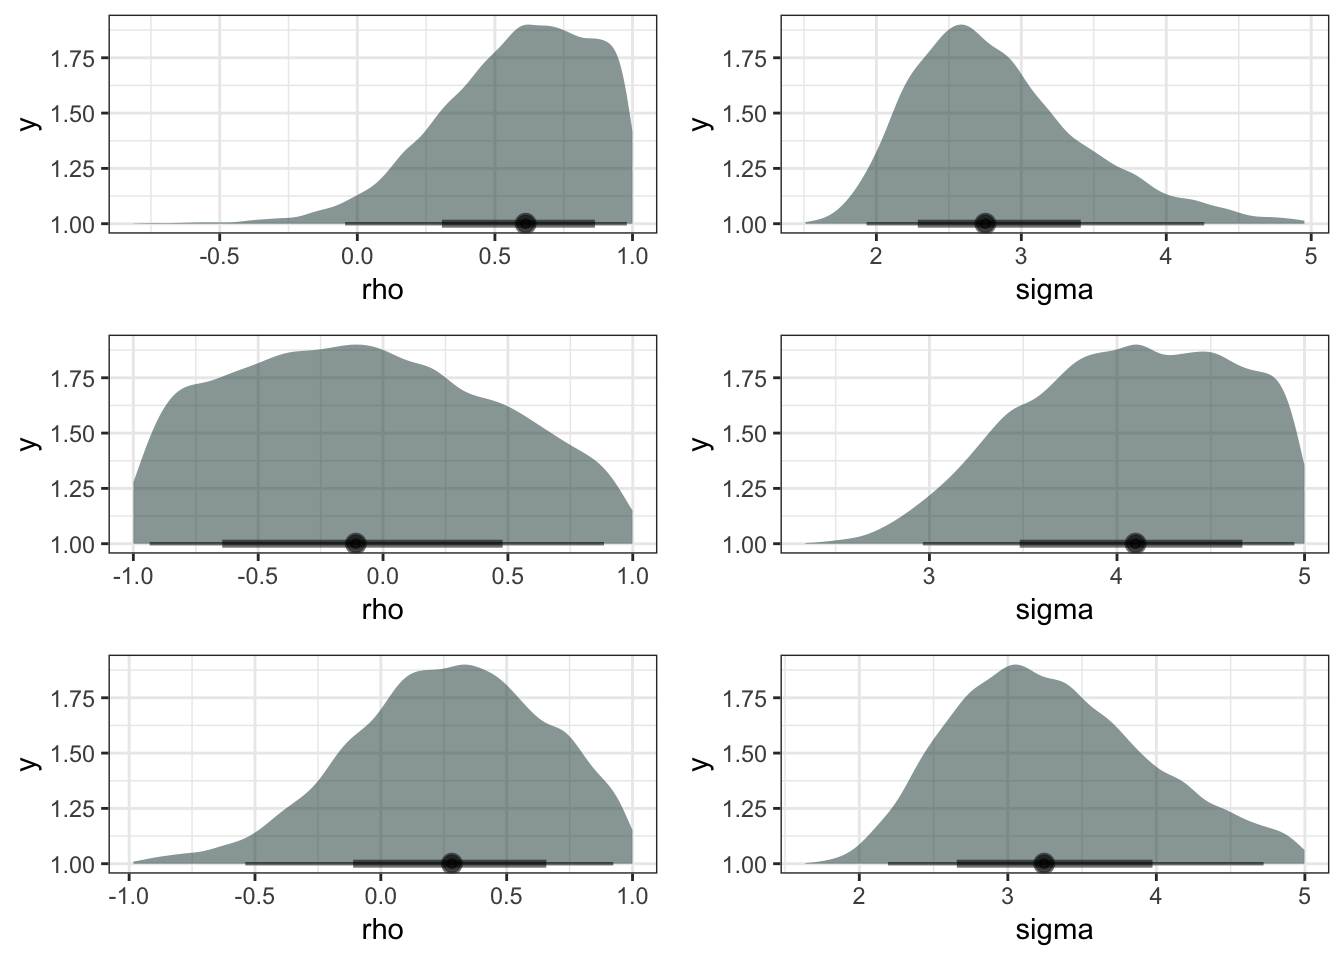
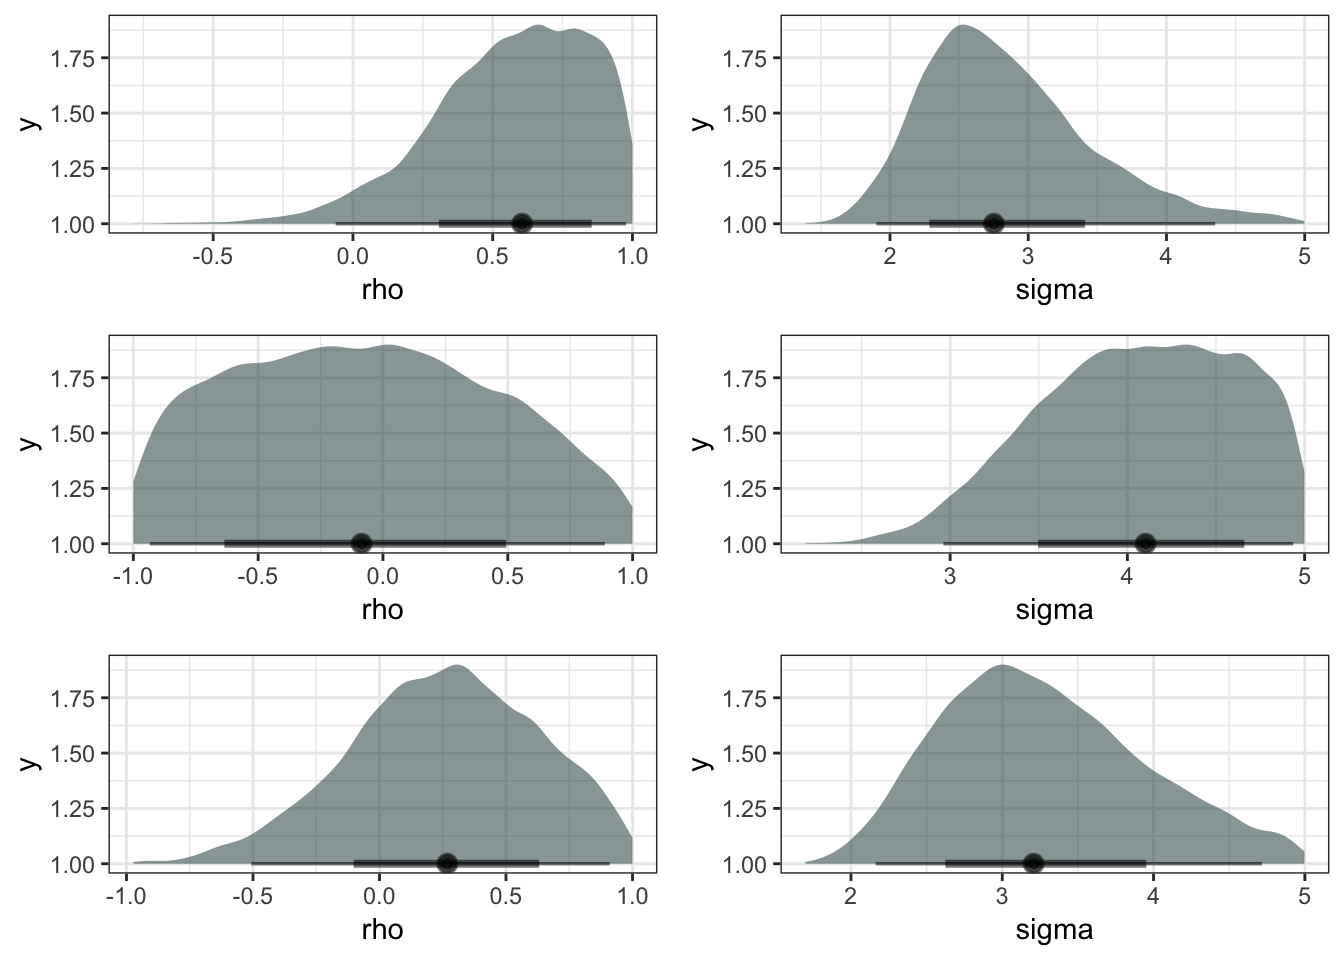
# stan advent calendar day19

diff --git a/content/post/CP.html b/content/post/CP.html
@@ -368,9 +368,9 @@ fit %&gt;% map(pi_table) %&gt;% bind_rows() %&gt;% mutate(subject=rep(c(5,7,9),e
 <tbody>
 <tr class="odd">
 <td align="left">es</td>
-<td align="right">-6.77</td>
-<td align="right">-9.97</td>
-<td align="right">-3.58</td>
+<td align="right">-6.79</td>
+<td align="right">-10.13</td>
+<td align="right">-3.79</td>
 <td align="right">0.95</td>
 <td align="left">median</td>
 <td align="left">hdi</td>
@@ -378,9 +378,9 @@ fit %&gt;% map(pi_table) %&gt;% bind_rows() %&gt;% mutate(subject=rep(c(5,7,9),e
 </tr>
 <tr class="even">
 <td align="left">mu1</td>
-<td align="right">41.70</td>
-<td align="right">39.29</td>
-<td align="right">44.05</td>
+<td align="right">41.65</td>
+<td align="right">39.35</td>
+<td align="right">43.97</td>
 <td align="right">0.95</td>
 <td align="left">median</td>
 <td align="left">hdi</td>
@@ -388,9 +388,9 @@ fit %&gt;% map(pi_table) %&gt;% bind_rows() %&gt;% mutate(subject=rep(c(5,7,9),e
 </tr>
 <tr class="odd">
 <td align="left">mu2</td>
-<td align="right">22.73</td>
-<td align="right">18.74</td>
-<td align="right">28.50</td>
+<td align="right">22.64</td>
+<td align="right">18.66</td>
+<td align="right">28.37</td>
 <td align="right">0.95</td>
 <td align="left">median</td>
 <td align="left">hdi</td>
@@ -399,7 +399,7 @@ fit %&gt;% map(pi_table) %&gt;% bind_rows() %&gt;% mutate(subject=rep(c(5,7,9),e
 <tr class="even">
 <td align="left">rho</td>
 <td align="right">0.61</td>
-<td align="right">0.08</td>
+<td align="right">0.05</td>
 <td align="right">1.00</td>
 <td align="right">0.95</td>
 <td align="left">median</td>
@@ -409,8 +409,8 @@ fit %&gt;% map(pi_table) %&gt;% bind_rows() %&gt;% mutate(subject=rep(c(5,7,9),e
 <tr class="odd">
 <td align="left">sigma</td>
 <td align="right">2.75</td>
-<td align="right">1.80</td>
-<td align="right">4.08</td>
+<td align="right">1.79</td>
+<td align="right">4.12</td>
 <td align="right">0.95</td>
 <td align="left">median</td>
 <td align="left">hdi</td>
@@ -419,8 +419,8 @@ fit %&gt;% map(pi_table) %&gt;% bind_rows() %&gt;% mutate(subject=rep(c(5,7,9),e
 <tr class="even">
 <td align="left">es</td>
 <td align="right">-2.88</td>
-<td align="right">-4.60</td>
-<td align="right">-1.31</td>
+<td align="right">-4.62</td>
+<td align="right">-1.28</td>
 <td align="right">0.95</td>
 <td align="left">median</td>
 <td align="left">hdi</td>
@@ -428,9 +428,9 @@ fit %&gt;% map(pi_table) %&gt;% bind_rows() %&gt;% mutate(subject=rep(c(5,7,9),e
 </tr>
 <tr class="odd">
 <td align="left">mu1</td>
-<td align="right">40.25</td>
-<td align="right">37.42</td>
-<td align="right">42.85</td>
+<td align="right">40.27</td>
+<td align="right">37.63</td>
+<td align="right">43.07</td>
 <td align="right">0.95</td>
 <td align="left">median</td>
 <td align="left">hdi</td>
@@ -438,9 +438,9 @@ fit %&gt;% map(pi_table) %&gt;% bind_rows() %&gt;% mutate(subject=rep(c(5,7,9),e
 </tr>
 <tr class="even">
 <td align="left">mu2</td>
-<td align="right">28.89</td>
-<td align="right">22.88</td>
-<td align="right">34.71</td>
+<td align="right">28.77</td>
+<td align="right">22.81</td>
+<td align="right">34.45</td>
 <td align="right">0.95</td>
 <td align="left">median</td>
 <td align="left">hdi</td>
@@ -448,8 +448,8 @@ fit %&gt;% map(pi_table) %&gt;% bind_rows() %&gt;% mutate(subject=rep(c(5,7,9),e
 </tr>
 <tr class="odd">
 <td align="left">rho</td>
-<td align="right">-0.11</td>
-<td align="right">-1.00</td>
+<td align="right">-0.09</td>
+<td align="right">-0.99</td>
 <td align="right">0.80</td>
 <td align="right">0.95</td>
 <td align="left">median</td>
@@ -459,7 +459,7 @@ fit %&gt;% map(pi_table) %&gt;% bind_rows() %&gt;% mutate(subject=rep(c(5,7,9),e
 <tr class="even">
 <td align="left">sigma</td>
 <td align="right">4.10</td>
-<td align="right">3.12</td>
+<td align="right">3.11</td>
 <td align="right">5.00</td>
 <td align="right">0.95</td>
 <td align="left">median</td>
@@ -468,9 +468,9 @@ fit %&gt;% map(pi_table) %&gt;% bind_rows() %&gt;% mutate(subject=rep(c(5,7,9),e
 </tr>
 <tr class="odd">
 <td align="left">es</td>
-<td align="right">-4.34</td>
-<td align="right">-6.87</td>
-<td align="right">-1.97</td>
+<td align="right">-4.44</td>
+<td align="right">-7.00</td>
+<td align="right">-2.10</td>
 <td align="right">0.95</td>
 <td align="left">median</td>
 <td align="left">hdi</td>
@@ -478,9 +478,9 @@ fit %&gt;% map(pi_table) %&gt;% bind_rows() %&gt;% mutate(subject=rep(c(5,7,9),e
 </tr>
 <tr class="even">
 <td align="left">mu1</td>
-<td align="right">39.31</td>
-<td align="right">35.91</td>
-<td align="right">42.41</td>
+<td align="right">39.33</td>
+<td align="right">36.27</td>
+<td align="right">42.39</td>
 <td align="right">0.95</td>
 <td align="left">median</td>
 <td align="left">hdi</td>
@@ -488,9 +488,9 @@ fit %&gt;% map(pi_table) %&gt;% bind_rows() %&gt;% mutate(subject=rep(c(5,7,9),e
 </tr>
 <tr class="odd">
 <td align="left">mu2</td>
-<td align="right">25.05</td>
-<td align="right">21.77</td>
-<td align="right">30.81</td>
+<td align="right">25.01</td>
+<td align="right">21.51</td>
+<td align="right">30.35</td>
 <td align="right">0.95</td>
 <td align="left">median</td>
 <td align="left">hdi</td>
@@ -498,8 +498,8 @@ fit %&gt;% map(pi_table) %&gt;% bind_rows() %&gt;% mutate(subject=rep(c(5,7,9),e
 </tr>
 <tr class="even">
 <td align="left">rho</td>
-<td align="right">0.28</td>
-<td align="right">-0.41</td>
+<td align="right">0.27</td>
+<td align="right">-0.40</td>
 <td align="right">0.98</td>
 <td align="right">0.95</td>
 <td align="left">median</td>
@@ -508,9 +508,9 @@ fit %&gt;% map(pi_table) %&gt;% bind_rows() %&gt;% mutate(subject=rep(c(5,7,9),e
 </tr>
 <tr class="odd">
 <td align="left">sigma</td>
-<td align="right">3.24</td>
-<td align="right">2.14</td>
-<td align="right">4.66</td>
+<td align="right">3.21</td>
+<td align="right">2.08</td>
+<td align="right">4.61</td>
 <td align="right">0.95</td>
 <td align="left">median</td>
 <td align="left">hdi</td>

diff --git a/docs/2018/12/19/tidybayes/index.html b/docs/2018/12/19/tidybayes/index.html
@@ -428,9 +428,9 @@ fit %&gt;% map(pi_table) %&gt;% bind_rows() %&gt;% mutate(subject=rep(c(5,7,9),e
 <tbody>
 <tr class="odd">
 <td align="left">es</td>
-<td align="right">-6.77</td>
-<td align="right">-9.97</td>
-<td align="right">-3.58</td>
+<td align="right">-6.79</td>
+<td align="right">-10.13</td>
+<td align="right">-3.79</td>
 <td align="right">0.95</td>
 <td align="left">median</td>
 <td align="left">hdi</td>
@@ -438,9 +438,9 @@ fit %&gt;% map(pi_table) %&gt;% bind_rows() %&gt;% mutate(subject=rep(c(5,7,9),e
 </tr>
 <tr class="even">
 <td align="left">mu1</td>
-<td align="right">41.70</td>
-<td align="right">39.29</td>
-<td align="right">44.05</td>
+<td align="right">41.65</td>
+<td align="right">39.35</td>
+<td align="right">43.97</td>
 <td align="right">0.95</td>
 <td align="left">median</td>
 <td align="left">hdi</td>
@@ -448,9 +448,9 @@ fit %&gt;% map(pi_table) %&gt;% bind_rows() %&gt;% mutate(subject=rep(c(5,7,9),e
 </tr>
 <tr class="odd">
 <td align="left">mu2</td>
-<td align="right">22.73</td>
-<td align="right">18.74</td>
-<td align="right">28.50</td>
+<td align="right">22.64</td>
+<td align="right">18.66</td>
+<td align="right">28.37</td>
 <td align="right">0.95</td>
 <td align="left">median</td>
 <td align="left">hdi</td>
@@ -459,7 +459,7 @@ fit %&gt;% map(pi_table) %&gt;% bind_rows() %&gt;% mutate(subject=rep(c(5,7,9),e
 <tr class="even">
 <td align="left">rho</td>
 <td align="right">0.61</td>
-<td align="right">0.08</td>
+<td align="right">0.05</td>
 <td align="right">1.00</td>
 <td align="right">0.95</td>
 <td align="left">median</td>
@@ -469,8 +469,8 @@ fit %&gt;% map(pi_table) %&gt;% bind_rows() %&gt;% mutate(subject=rep(c(5,7,9),e
 <tr class="odd">
 <td align="left">sigma</td>
 <td align="right">2.75</td>
-<td align="right">1.80</td>
-<td align="right">4.08</td>
+<td align="right">1.79</td>
+<td align="right">4.12</td>
 <td align="right">0.95</td>
 <td align="left">median</td>
 <td align="left">hdi</td>
@@ -479,8 +479,8 @@ fit %&gt;% map(pi_table) %&gt;% bind_rows() %&gt;% mutate(subject=rep(c(5,7,9),e
 <tr class="even">
 <td align="left">es</td>
 <td align="right">-2.88</td>
-<td align="right">-4.60</td>
-<td align="right">-1.31</td>
+<td align="right">-4.62</td>
+<td align="right">-1.28</td>
 <td align="right">0.95</td>
 <td align="left">median</td>
 <td align="left">hdi</td>
@@ -488,9 +488,9 @@ fit %&gt;% map(pi_table) %&gt;% bind_rows() %&gt;% mutate(subject=rep(c(5,7,9),e
 </tr>
 <tr class="odd">
 <td align="left">mu1</td>
-<td align="right">40.25</td>
-<td align="right">37.42</td>
-<td align="right">42.85</td>
+<td align="right">40.27</td>
+<td align="right">37.63</td>
+<td align="right">43.07</td>
 <td align="right">0.95</td>
 <td align="left">median</td>
 <td align="left">hdi</td>
@@ -498,9 +498,9 @@ fit %&gt;% map(pi_table) %&gt;% bind_rows() %&gt;% mutate(subject=rep(c(5,7,9),e
 </tr>
 <tr class="even">
 <td align="left">mu2</td>
-<td align="right">28.89</td>
-<td align="right">22.88</td>
-<td align="right">34.71</td>
+<td align="right">28.77</td>
+<td align="right">22.81</td>
+<td align="right">34.45</td>
 <td align="right">0.95</td>
 <td align="left">median</td>
 <td align="left">hdi</td>
@@ -508,8 +508,8 @@ fit %&gt;% map(pi_table) %&gt;% bind_rows() %&gt;% mutate(subject=rep(c(5,7,9),e
 </tr>
 <tr class="odd">
 <td align="left">rho</td>
-<td align="right">-0.11</td>
-<td align="right">-1.00</td>
+<td align="right">-0.09</td>
+<td align="right">-0.99</td>
 <td align="right">0.80</td>
 <td align="right">0.95</td>
 <td align="left">median</td>
@@ -519,7 +519,7 @@ fit %&gt;% map(pi_table) %&gt;% bind_rows() %&gt;% mutate(subject=rep(c(5,7,9),e
 <tr class="even">
 <td align="left">sigma</td>
 <td align="right">4.10</td>
-<td align="right">3.12</td>
+<td align="right">3.11</td>
 <td align="right">5.00</td>
 <td align="right">0.95</td>
 <td align="left">median</td>
@@ -528,9 +528,9 @@ fit %&gt;% map(pi_table) %&gt;% bind_rows() %&gt;% mutate(subject=rep(c(5,7,9),e
 </tr>
 <tr class="odd">
 <td align="left">es</td>
-<td align="right">-4.34</td>
-<td align="right">-6.87</td>
-<td align="right">-1.97</td>
+<td align="right">-4.44</td>
+<td align="right">-7.00</td>
+<td align="right">-2.10</td>
 <td align="right">0.95</td>
 <td align="left">median</td>
 <td align="left">hdi</td>
@@ -538,9 +538,9 @@ fit %&gt;% map(pi_table) %&gt;% bind_rows() %&gt;% mutate(subject=rep(c(5,7,9),e
 </tr>
 <tr class="even">
 <td align="left">mu1</td>
-<td align="right">39.31</td>
-<td align="right">35.91</td>
-<td align="right">42.41</td>
+<td align="right">39.33</td>
+<td align="right">36.27</td>
+<td align="right">42.39</td>
 <td align="right">0.95</td>
 <td align="left">median</td>
 <td align="left">hdi</td>
@@ -548,9 +548,9 @@ fit %&gt;% map(pi_table) %&gt;% bind_rows() %&gt;% mutate(subject=rep(c(5,7,9),e
 </tr>
 <tr class="odd">
 <td align="left">mu2</td>
-<td align="right">25.05</td>
-<td align="right">21.77</td>
-<td align="right">30.81</td>
+<td align="right">25.01</td>
+<td align="right">21.51</td>
+<td align="right">30.35</td>
 <td align="right">0.95</td>
 <td align="left">median</td>
 <td align="left">hdi</td>
@@ -558,8 +558,8 @@ fit %&gt;% map(pi_table) %&gt;% bind_rows() %&gt;% mutate(subject=rep(c(5,7,9),e
 </tr>
 <tr class="even">
 <td align="left">rho</td>
-<td align="right">0.28</td>
-<td align="right">-0.41</td>
+<td align="right">0.27</td>
+<td align="right">-0.40</td>
 <td align="right">0.98</td>
 <td align="right">0.95</td>
 <td align="left">median</td>
@@ -568,9 +568,9 @@ fit %&gt;% map(pi_table) %&gt;% bind_rows() %&gt;% mutate(subject=rep(c(5,7,9),e
 </tr>
 <tr class="odd">
 <td align="left">sigma</td>
-<td align="right">3.24</td>
-<td align="right">2.14</td>
-<td align="right">4.66</td>
+<td align="right">3.21</td>
+<td align="right">2.08</td>
+<td align="right">4.61</td>
 <td align="right">0.95</td>
 <td align="left">median</td>
 <td align="left">hdi</td>
